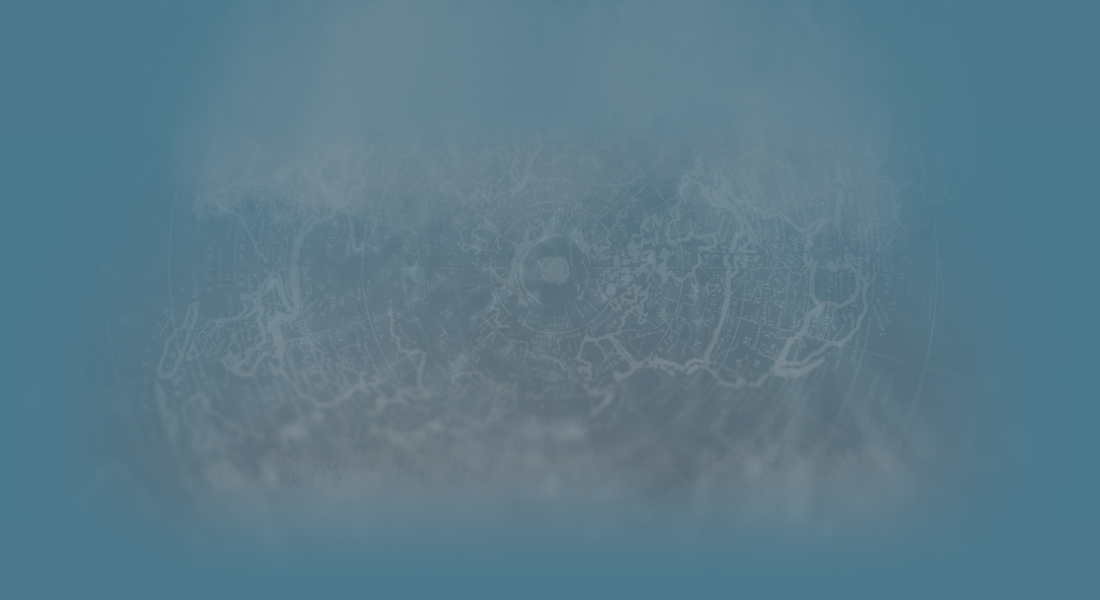
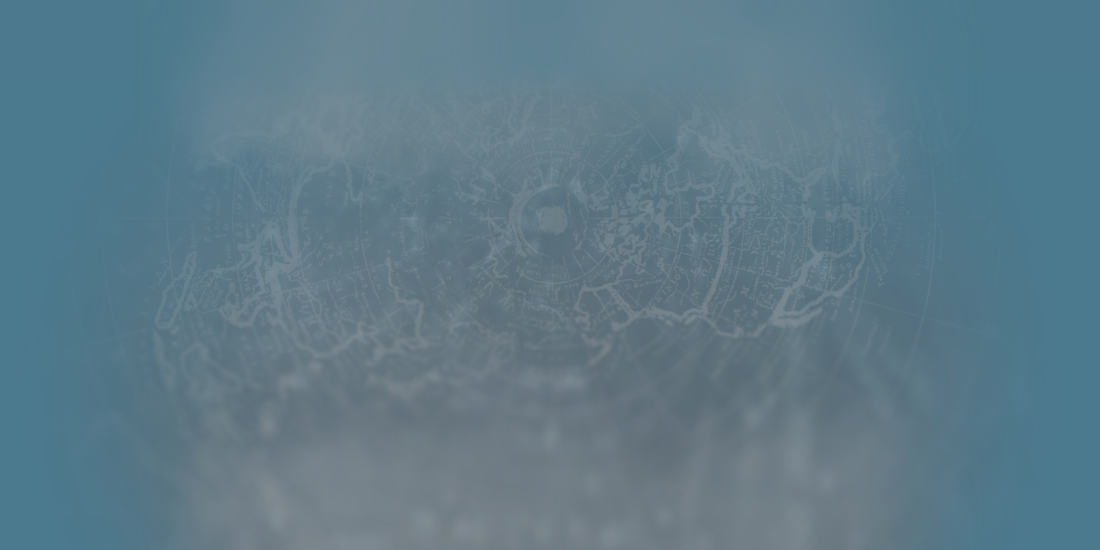
Consolidate header

diff --git a/tfes.css b/tfes.css
@@ -402,7 +402,7 @@ input#button:hover {
 #header {
   position: relative;
   max-width: 952px;
-  height: 186px;
+  height: 100px;
   color: #fff;
   padding: 0;
   margin: 0 0 30px 0;
@@ -424,8 +424,8 @@ input#button:hover {
 
 #logo_img {
   position: relative;
-  top: 44px;
-  left: 25px;
+  top: 20px;
+  left: 35px;
   width: 100px;
   height: 100px;
   image-rendering: -webkit-optimize-contrast;
@@ -433,7 +433,7 @@ input#button:hover {
 
 #logo_txt {
   position: relative;
-  top: 44px;
+  top: 20px;
   left: 50%;
   transform: translate(-50%, 0);
   width: 200px;
@@ -443,6 +443,7 @@ input#button:hover {
 
 @media (max-width: 500px) {
   #logo_img {
+    left: 25px;
     top: 20px;
     width: 75px;
     height: 75px;
